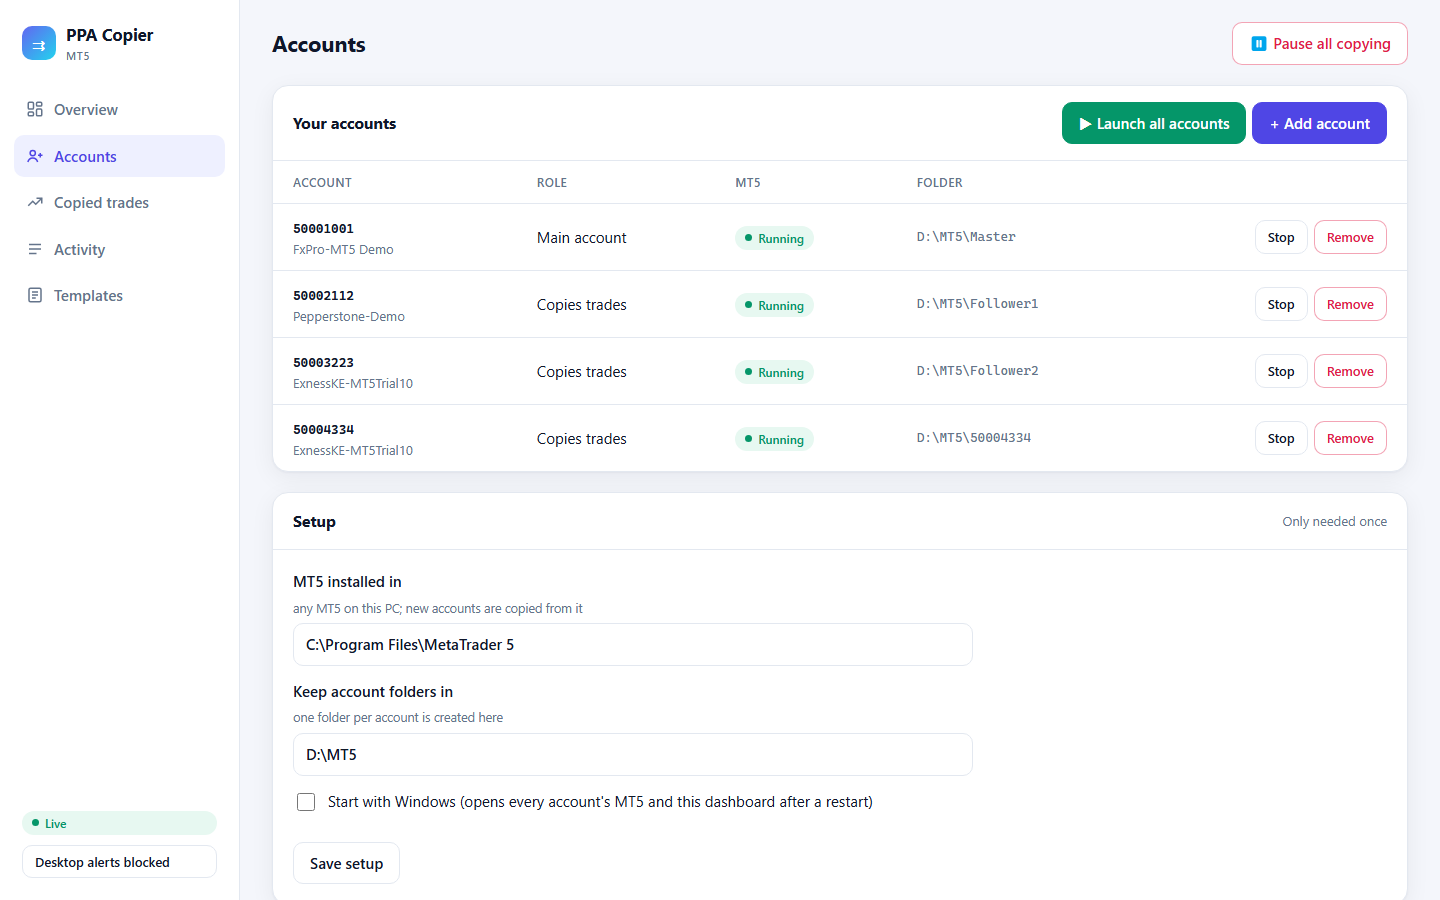
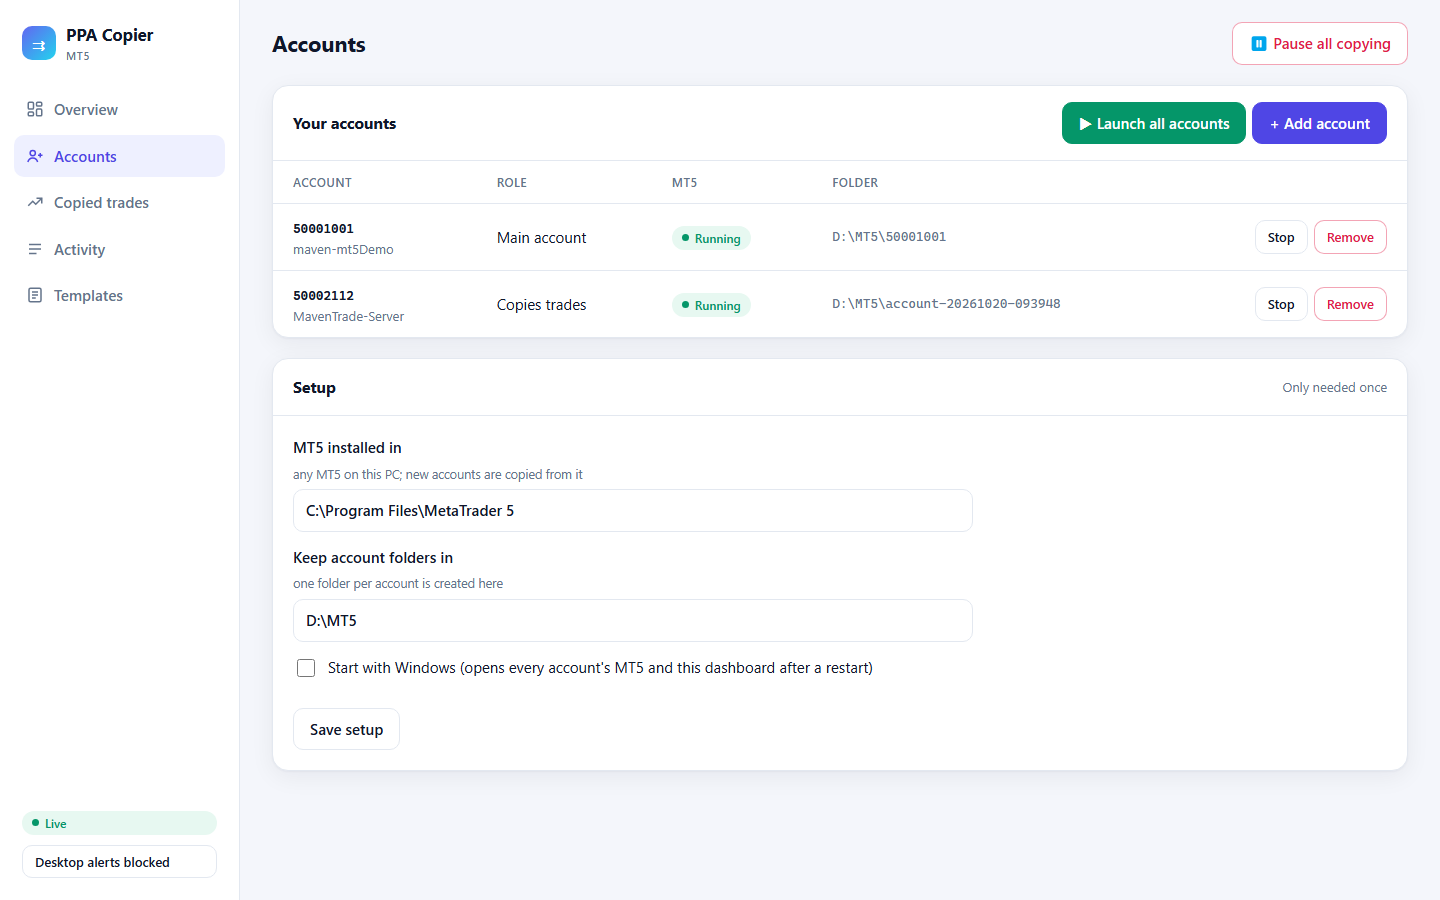
Docs: three ways to add an account, open/close delays, Remove deleting folders; refresh Accounts screenshots

diff --git a/dashboard/e2e/screenshots.js b/dashboard/e2e/screenshots.js
@@ -45,8 +45,8 @@ async function shot(page, hash, file, prepare) {
     await p.locator("#settings").waitFor({ state: "visible" });
   });
   await shot(page, "accounts", "add-account.png", async (p) => {
-    await p.locator("#addAccountBtn").click();
-    await p.locator("#addForm [name=server]").fill("Broker-Demo");
+    await p.locator("#addAccountBtn").click();   // default: "Open a new MT5 and I'll log in there"
+    await p.locator("#addForm").waitFor({ state: "visible" });
   });
   await browser.close();
 })();

diff --git a/docs/setup.md b/docs/setup.md
@@ -36,23 +36,31 @@ Go to **Accounts → Setup**:
 
 ### 3. Add accounts
 
-Click **+ Add account**. Add your **main** account first, then each account to copy to:
+Click **+ Add account**. Add your **main** account first, then each account to copy to.
+
+**Which MT5?** There are three ways:
+
+| Option | How it works | Use when |
+|---|---|---|
+| **Open a new MT5 and I'll log in there** (recommended) | A fresh MT5 opens with the copier installed. You log in inside it: **File → Open an Account** → search your broker → **Connect with an existing trade account** → tick **Save password**. The dashboard spots the login (it waits up to 10 minutes) and finishes setting up. | Most accounts. MT5's own broker search always finds the right server. |
+| Set up a new MT5 with the login I type here | You enter the login, password and server in the form. | The broker's server is already known on this PC, e.g. you already have another account there. |
+| An MT5 I already have | You give the folder of an MT5 that's already logged in, e.g. your prop firm's own MT5. The dashboard detects the account, closes that MT5 for a moment, adds the copier on a **new chart** (yours aren't touched) and starts it again. | You already use that MT5. |
+
+**Copying fields** (copy accounts only):
 
 | Field | Example |
 |---|---|
-| Role | Copy trades **to** this account / This is my **main** account |
-| Account number, Password | Your MT5 login |
-| Server | Exactly as the broker gives it, e.g. `Pepperstone-Demo` |
 | Main account number | Filled in for you |
-| Lot size | `1` = same as main, `0.5` = half |
+| Lot size | `1` = same as main, `0.5` = half (account size ÷ main account size) |
 | Symbol ending | Optional, e.g. `m` for Exness. Usually detected automatically. |
+| Open delay + random up to | e.g. `1` + `2` s, so copies land 1–3 s after yours |
+| Close delay + random up to | `0` = instant (recommended) |
 
-**What the dashboard does for each account:**
-1. Creates `D:\MT5\<login>` from your MT5 install. It copies the broker server list from an account already on the same broker, so MT5 can find the server.
-2. Installs the copier EA and attaches it to MT5's saved chart, so it's reattached on every start.
-3. Starts MT5 with a **one-time start-up file** containing the login. MT5 logs in, saves the password itself, and turns on Algo Trading. **The file is deleted within 20 seconds.** The dashboard never stores the password.
-
-**About the very first account:** with no compiled EAs yet, it takes about a minute. MT5 starts once to create its standard library, the EAs are compiled, then MT5 restarts. On its first start MT5 may also download an update and restart by itself. That's normal.
+**Good to know:**
+- **Server names must match exactly what MT5 shows** (e.g. Maven's is `MavenTrade-Server`). If unsure, use the first option.
+- **The password** (second option only) goes into a one-time start-up file that's deleted within 20 seconds. After that, MT5 keeps the login itself. The dashboard never stores it.
+- **Each new MT5** gets the copier attached to its saved chart, so it comes back after every restart. It also gets the biggest broker server list on this PC (or one from an account on the same broker).
+- **On its first start,** MT5 may download an update and restart by itself. That's normal.
 
 ### 4. Test
 
@@ -63,11 +71,12 @@ Open a small trade (e.g. 0.01 lot) on the main account. Each account should copy
 - **Accounts page:**
   - **Launch all accounts** starts every MT5 that isn't running, main account first.
   - Each account has **Start / Stop / Remove**. Stop closes MT5 cleanly, like clicking ✕.
-  - **Remove** keeps the account's folder on disk. Delete it yourself if you don't need it.
+  - **Remove** closes that MT5, unregisters it and, if you choose, **deletes its folder**. Only folders inside your accounts folder are deleted. Trades already open on that account are **not** closed.
 - **Settings** on each account card:
   - lot size, symbol mapping
   - safety limits: daily loss, equity floor, max trades/lots, trading hours, news pause
-  - copy delay
+  - open and close delays (fixed + random extra, in seconds)
+  - "Copy new trades to this account": untick to hold an account without removing it
   
   Changes apply within about a second. A new lot size only affects **new** trades; open copies keep their size.
 - **Pause all copying:** new trades aren't copied. Closes and stop changes still are, so nothing is left unmanaged.
@@ -127,7 +136,7 @@ npm test
 |---|---|
 | Account card says **Algo Trading is off** | Turn on the **Algo Trading** button in that MT5 |
 | **Can't find main account** / **Main account offline** | The main account's MT5 is closed or CopierMaster isn't attached. Click **Launch all**. |
-| A new account never logs in | Wrong password or server name. Remove it, delete its folder and add it again. |
+| A new account never logs in | MT5 doesn't know that broker's server, or the password or server is wrong. **Remove** it (with its folder), then add it again with **Open a new MT5 and I'll log in there**, searching your broker inside MT5. |
 | Trades skipped: **no matching symbol** | Set the symbol ending (e.g. `m`) or a symbol map (`GOLD=XAUUSD`) in Settings |
 | Trades skipped: **not enough free margin** | The account is fully used. Close trades, lower its lot size, or top it up. |
 | Accounts show as stopped but MT5 is open | It's a different MT5 install than the one registered. Check the folder on the Accounts page. |

diff --git a/README.md b/README.md
@@ -40,13 +40,18 @@ Hosted copy-trading services solve the repetition, but:
 - Daily loss limit and equity floor, with an option to close all copies when hit.
 - Max lot per trade, max open trades, max total lots.
 - Trading hours and a pause around high-impact news (MT5 economic calendar).
-- **Copy delay:** fixed plus a random extra, so accounts don't act in perfect sync.
+- **Copy delays:** separate open and close delays, each fixed plus a random extra, so accounts don't act in perfect sync.
 
 **Dashboard** (local web page)
 - **Overview:** a plain-language health banner ("Everything's running" / "Needs attention"), plus each account's equity, today's result, open trades and copy speed.
 - **Accounts:**
-  - **Add account** with one form: login, password, server, lot size. The dashboard creates the MT5, installs the copier, logs in and starts it.
-  - **Launch all**, Start / Stop / Remove for each account, and **Start with Windows**.
+  - **Add account** in three ways:
+    - **open a fresh MT5 and log in there** (the dashboard finishes the setup when it sees the login),
+    - type the login into the form,
+    - or **attach an MT5 you already have**, e.g. your prop firm's own install.
+    
+    Each new MT5 gets the copier installed and is registered automatically.
+  - **Launch all**, Start / Stop / Remove for each account (Remove can delete the account's folder), and **Start with Windows**.
 - **Settings for each account,** applied within a second with no restart. Includes a live preview ("Master 0.20 lot → 0.10 lot here").
 - **Copied trades:** the price each account got against the master's price.
 - **Activity log:** filters (copied / closed / skipped / failed), search and CSV export.
@@ -89,7 +94,7 @@ $env:GOARCH = "amd64"; go build -o tradecopier-dashboard.exe .
 
 Then in the dashboard:
 1. **Accounts → Setup:** check the MT5 install folder and where account folders go, then save.
-2. **+ Add account:** add your **main** account first, then each account to copy to.
+2. **+ Add account → "Open a new MT5 and I'll log in there":** add your **main** account first, then each account to copy to. In each MT5 that opens, log in via **File → Open an Account** (search your broker, tick **Save password**). The dashboard does the rest.
 3. Open a small trade on the main account and watch it appear on every account.
 
 Full guide, manual setup and troubleshooting: [docs/setup.md](docs/setup.md).
